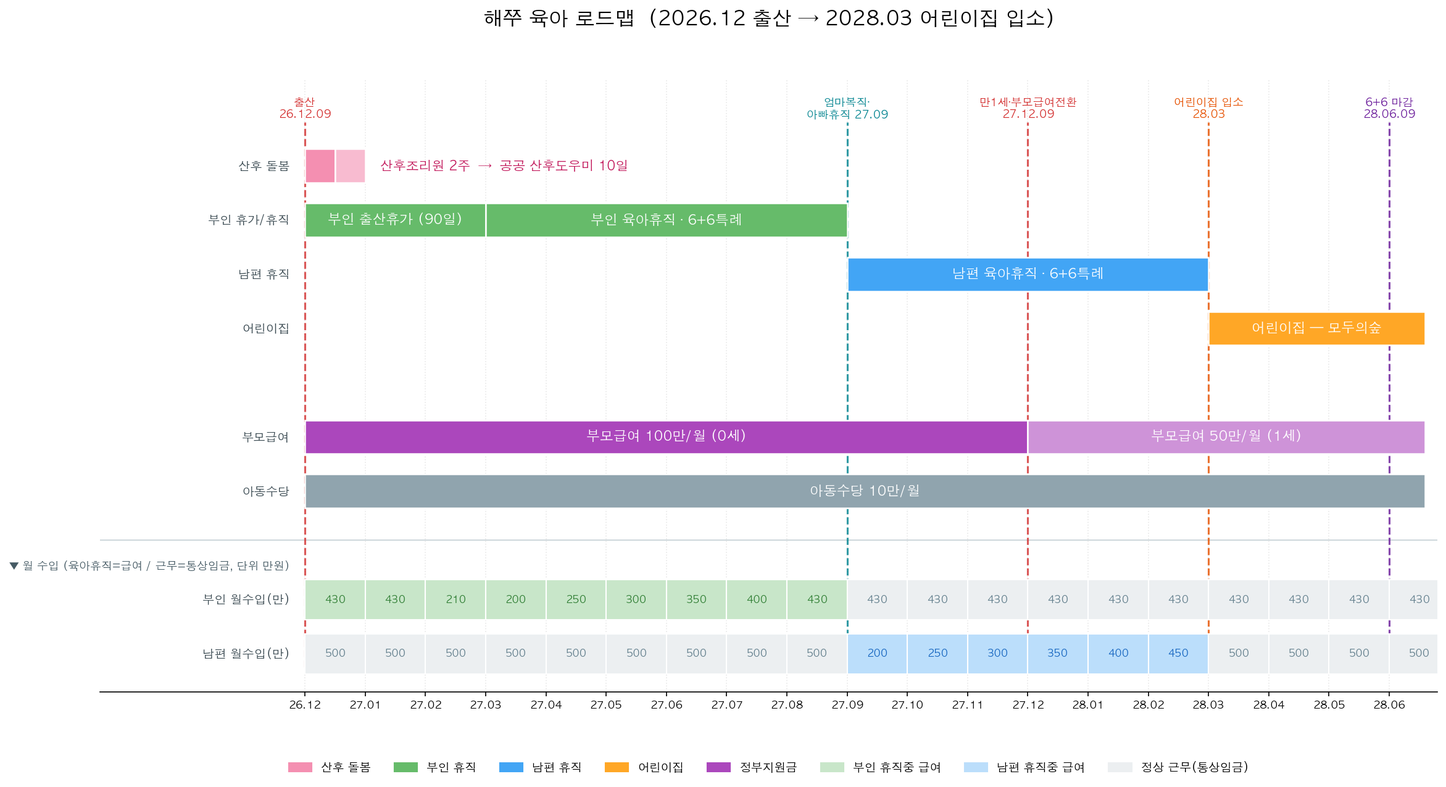
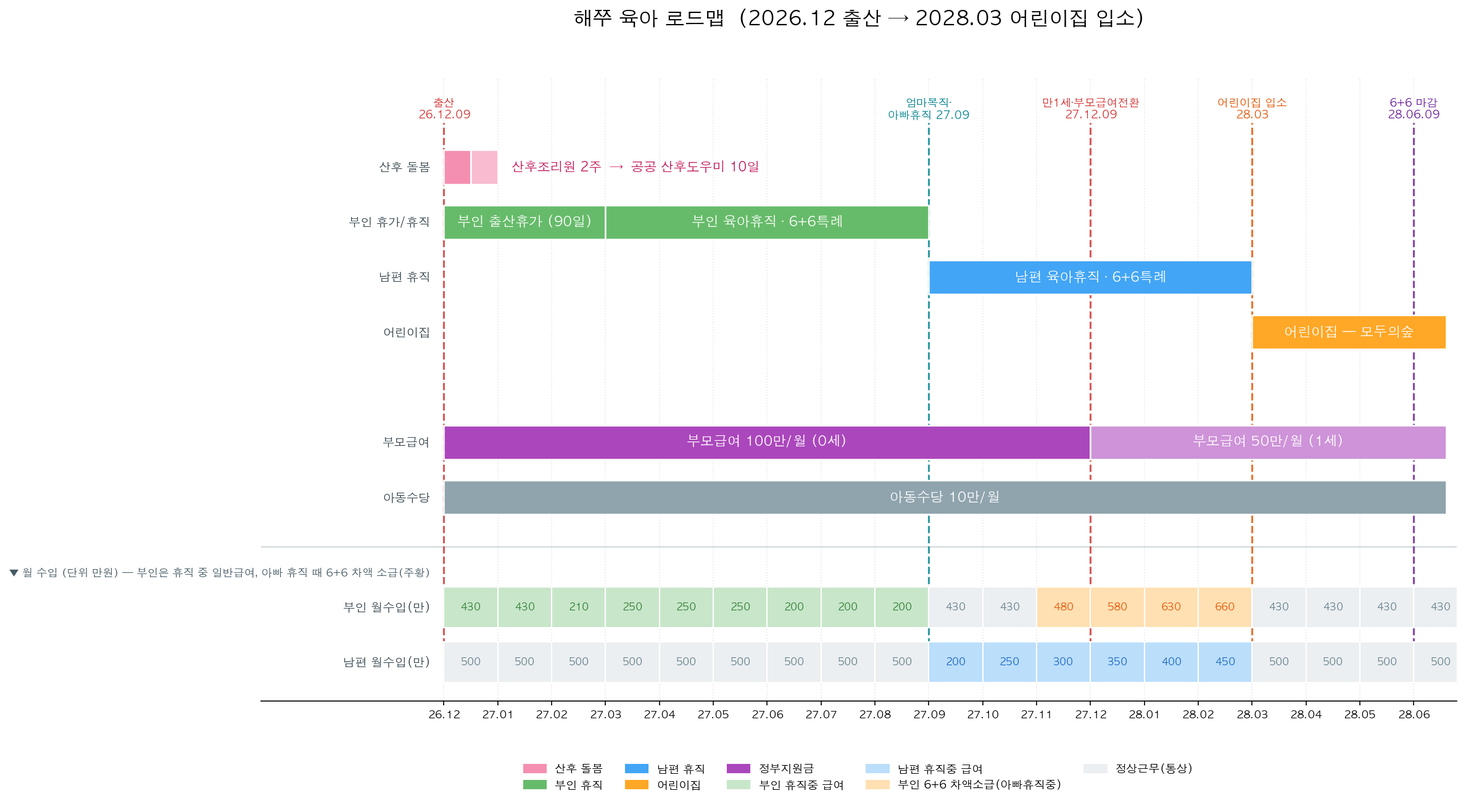
로드맵 HTML 갱신: 산후도우미 지명예약 역검색(윤스맘케어 등), 6+6 차액 소급 타임라인, 어린이집·6+6 설명 반영

diff --git a/roadmap.html b/roadmap.html
@@ -66,7 +66,7 @@ tbody tr:nth-child(even){background:#fafbff}
 <hr>
 <h2>0. 한눈에 보는 전체 타임라인</h2>
 <p class="imgwrap"><img src="roadmap_timeline.png" alt="해쭈 육아 로드맵 타임라인"></p>
-<blockquote><p>🟥 산후 돌봄 · 🟩 부인 휴직 · 🟦 남편 휴직 · 🟧 어린이집 · 🟪 정부지원금 | 점선 = 핵심 분기점(출산 / 엄마복직·아빠휴직 / 만1세·부모급여 전환 / 어린이집 입소 / 6+6 마감)<br>맨 아래 두 줄 = <strong>부인·남편 월수입</strong>(단위 만원): <strong>육아휴직 중엔 6+6 급여(연두/하늘색)</strong>, 근무 중엔 <strong>통상임금</strong>(부인 430·남편 500, 회색).</p></blockquote>
+<blockquote><p>🟥 산후 돌봄 · 🟩 부인 휴직 · 🟦 남편 휴직 · 🟧 어린이집 · 🟪 정부지원금 | 점선 = 핵심 분기점(출산 / 엄마복직·아빠휴직 / 만1세·부모급여 전환 / 어린이집 입소 / 6+6 마감)<br>맨 아래 두 줄 = <strong>부인·남편 월수입</strong>(만원). 부인은 <strong>휴직 중엔 일반급여</strong>(연두, 250·250·250·200·200·200)만 받고, <strong>아빠 휴직 기간(27.11~28.02)에 6+6 차액이 소급</strong>돼 그때 수입이 올라감(주황, 480·580·630·660). 남편은 휴직 중 6+6 급여(하늘), 근무 중엔 통상임금(부인 430·남편 500, 회색).</p></blockquote>
 <div class="tablewrap"><table><thead><tr><th>시기</th><th>해쭈 나이</th><th>돌봄 주체</th><th>핵심 이벤트</th></tr></thead><tbody><tr><td>2026.12.09</td><td>출생</td><td>엄마(출산휴가)</td><td>출생신고·원스톱 신청, <strong>아이사랑 입소대기 등록</strong></td></tr><tr><td>2026.12.09~23</td><td>0~2주</td><td>산후조리원(2주)</td><td>퇴소 후 <strong>산후도우미</strong> 이어서</td></tr><tr><td>2026.12 ~ 2027.03</td><td>0~3개월</td><td>엄마 출산전후휴가(90일) + 산후도우미</td><td>첫 예방접종·1차 영유아검진</td></tr><tr><td>2027.03 ~ 2027.09</td><td>3~9개월</td><td><strong>엄마 육아휴직(6개월)</strong></td><td>6+6 특례(엄마 첫 6개월 전부 100%), 2·3차 검진</td></tr><tr><td><strong>2027.09.10</strong></td><td>9개월</td><td>전환점</td><td><strong>엄마 복직 → 아빠 육아휴직 바로 시작</strong></td></tr><tr><td>2027.09 ~ 2028.03</td><td>9~15개월</td><td><strong>아빠 육아휴직(6개월)</strong></td><td>6+6 특례(아빠 첫 6개월 전부 100%)</td></tr><tr><td><strong>2027.12.09</strong></td><td><strong>만 1세</strong></td><td>전환점</td><td><strong>부모급여 100→50만원</strong>, 가정보육 1년 달성 ✅</td></tr><tr><td><strong>2028.03</strong></td><td>만 1세반</td><td>어린이집</td><td><strong>신학기 입소(권장)</strong>, 아빠 휴직 종료 무렵</td></tr><tr><td>2028.06.09</td><td>생후 18개월</td><td>—</td><td>⚠ <strong>6+6 마감일</strong> — 이번 플랜은 양쪽 모두 28.3 내 완료라 여유</td></tr></tbody></table></div>
 <blockquote><p>📌 핵심 한 줄: <strong>엄마 휴직 6개월(~27.09) → 아빠 휴직 6개월(27.09~28.03) → 28.3 어린이집 신학기 입소</strong>. 부모 각자 6+6 특례 첫 6개월(100%)을 손실 없이 꽉 채우는 동선.</p></blockquote>
 <hr>
@@ -93,17 +93,39 @@ tbody tr:nth-child(even){background:#fafbff}
 <blockquote><p>⚠ 위 금액은 2026년 <strong>전국 표준 단가</strong> (<a href="http://www.mohw.go.kr/board.es?mid=a10409020000&amp;bid=0026&amp;list_no=1488490&amp;act=view" target="_blank" rel="noopener">보건복지부 고시</a> · <a href="https://www.kmom.kr/bbs/page.php?hid=_sub_service_price" target="_blank" rel="noopener">가격표 참고</a>). 광진구·제공업체별 실제 단가와 <strong>본인부담금 추가지원</strong> 여부는 광진구보건소에서 최종 확인. VIP/프리미엄 관리사 지정 시 추가금(1일 1~2만원 → 10일이면 +10~20만원) 별도.</p></blockquote>
 <h3>산후도우미 액션 체크</h3>
 <ul><li><span class="cbx ">☐</span> <strong>2026.10말~11월</strong>: 출산 전 미리 복지로/광진구보건소에서 신청 (예정일 40일 전부터)</li><li><span class="cbx ">☐</span> 제공기관 미리 비교·예약 (인기 업체는 조기 마감 — 조리원 퇴소일 12.23 맞춰 일정 확보)</li><li><span class="cbx ">☐</span> 표준 10일 vs 연장 15일 결정 (첫째라 손 많이 가면 연장 고려)</li><li><span class="cbx ">☐</span> 산후조리경비 100만원 바우처와 결제 조합 확인</li></ul>
+<h3>🔑 핵심 — &quot;지정예약&quot;은 제도 밖이지만 <strong>윤스맘케어·이레아이맘은 실제로 됨</strong> (2026.06 맘스홀릭 역검색)</h3>
+<blockquote><p>바우처 <strong>제도 자체</strong>엔 관리사 지명 규정이 없지만(업체가 가용 인력 배정), <strong>맘스홀릭 원문 294건을 역검색하니 윤스맘케어·이레아이맘은 &quot;후기 보고 특정 관리사를 사전 지정요청&quot;이 실제로 가능</strong>했음(후기 다수). 즉 <strong>지정예약은 &quot;업체별 정책&quot;이고, 이 두 곳은 됨 / 코코맘은 안 됨.</strong></p></blockquote>
+<ul><li>✅ <strong>윤스맘케어</strong> — &quot;첫째 때 VIP지정으로 만났고 둘째도 꼭 지정해달라 요청&quot;(<a href="https://cafe.naver.com/f-e/cafes/10094499/articles/71017027" target="_blank" rel="noopener">후기288</a>), &quot;관리사 후기 다 읽고 이미숙 관리사 업체에 지정요청&quot;(<a href="https://cafe.naver.com/f-e/cafes/10094499/articles/72399818" target="_blank" rel="noopener">후기281</a>) → <strong>후기 보고 지명 가능</strong>. 단 인기 관리사는 <strong>일정이 안 맞을 수 있음</strong> → 일찍 요청 + 차선.</li><li>✅ <strong>이레아이맘</strong> — &quot;카페 추천글 많은 VIP 김경옥 관리사로 지정해서 예약&quot;(<a href="https://cafe.naver.com/f-e/cafes/10094499/articles/69637184" target="_blank" rel="noopener">후기044</a>) → 지명 가능.</li><li>❌ <strong>코코맘</strong> — 지정예약 불가(전화 확인, 출산 후 가용 인력 배정). 지옥렬 관리사는 군자동 출퇴근 거부.</li></ul>
+<h4>군자동(광진) 커버 + 바우처 + 지명 가능 — 우선순위</h4>
+<blockquote><p>군자동 콕 집은 후기는 없으나, <strong>광진구 출퇴근형 후기는 윤스맘케어에 압도적</strong>(광진 후기 다수). 군자동은 광진 출퇴근 권역.</p></blockquote>
+<div class="tablewrap"><table><thead><tr><th>순위</th><th>업체</th><th>지정예약</th><th>광진 커버</th><th>연락처</th><th>메모</th></tr></thead><tbody><tr><td><strong>1</strong></td><td><strong>윤스맘케어</strong></td><td>✅ 후기 확인</td><td>✅ <strong>광진 후기 압도적</strong>(22건)</td><td>맘스홀릭/전화</td><td>광진 VIP 관리사 다수 → 아래 명단</td></tr><tr><td><strong>2</strong></td><td><strong>이레아이맘</strong></td><td>✅ 후기 확인</td><td>성동·광진동대문 지점</td><td><a href="https://www.ereimom.co.kr/" target="_blank" rel="noopener">ereimom.co.kr</a></td><td>송명현·김경옥·김갑남</td></tr><tr><td>3</td><td>친정맘</td><td>❓ 전화확인</td><td>광진 전역(중곡 소재, 군자 인접)</td><td>☎ 02-512-3885</td><td>개인 관리사 데이터 없음</td></tr><tr><td>3</td><td>검출(금줄)</td><td>❓ 전화확인</td><td>성동·광진</td><td>☎ 02-6061-5425</td><td>개인 관리사 데이터 없음</td></tr></tbody></table></div>
+<blockquote><p>❌ 제외(검증 실패): <strong>에프엠산후도우미·베이비마스터·코코맘</strong> — 각각 커버/등급 미확인 또는 지정 불가.</p></blockquote>
+<h4>📞 전화 상담 시 꼭 물어볼 5가지</h4>
+<p>1. <strong>특정 관리사 지명예약 되나요?</strong> (출산 전 미리) — 안 되면 후기 보는 의미 없음</p>
+<p>2. 지명 시 <strong>지명료(추가금)</strong> 얼마? (바우처 외 별도인지)</p>
+<p>3. <strong>군자동 출퇴근형</strong> 배정 되나요? (조리원 퇴소 12.23 시작)</p>
+<p>4. <strong>정부 바우처 + 서울 산후조리경비 100만원</strong> 결제 조합 되나요?</p>
+<p>5. 사전예약은 <strong>언제부터</strong> 확정해 주나요? (예정일 며칠 전)</p>
+<h4>✅ 후기 말고 &#x27;공식 등급&#x27;으로 객관 검증</h4>
+<ul><li><a href="https://www.socialservice.or.kr:444/" target="_blank" rel="noopener">사회서비스 전자바우처 — 제공기관 검색</a> → <strong>광진구</strong> 필터 → 등록기관 + <strong>A~F 품질등급</strong> 확인</li><li><a href="https://www.mohw.go.kr/board.es?mid=a10501010200&amp;bid=0003&amp;act=view&amp;list_no=1488415" target="_blank" rel="noopener">2025 품질평가 결과 공개파일(Excel)</a> 다운 → 광진구 산모·신생아 기관 <strong>A등급</strong> 추리기 (2025년 산모·신생아 780곳 중 A 50%)</li><li>⏰ <strong>신청 시작 2026.10.30</strong>(예정일 40일 전) → 그 전에 업체 확정. <strong>서울 산후조리경비 조합 가능 여부는 광진구보건소(☎ 02-450-1933)</strong> 에 확인.</li></ul>
+<hr>
 <h3>🏆 후기 기반 산후도우미 업체·관리사 추천 순위 (광진/성동)</h3>
-<blockquote><p><strong>데이터 출처</strong>: 네이버 맘스홀릭베이비 카페에서 <code>&#x27;성동구 산후도우미&#x27;</code> + <code>&#x27;광진구 산후도우미&#x27;</code> 검색(2024.01~2026.06), <strong>후기/추천 글 293건 수집·집계</strong>.<br>⚠ <strong>이 순위는 &quot;카페 내 후기·추천 언급 빈도와 어조&quot; 기준</strong>이라 인기도(=시장점유·후기이벤트 영향 포함) 지표지, 검증된 품질평가가 아닙니다. 최종 선택 전 ① <a href="https://www.socialservice.or.kr:444/user/svcsrch/supply/supplyList.do" target="_blank" rel="noopener">사회서비스 품질평가 등급</a>(A~F) 확인, ② 전화 상담 분위기, ③ 홈캠 설치 가능 여부를 꼭 직접 점검하세요. (원문 수집본: <a href="산후도우미_크롤링/수집결과/" target="_blank" rel="noopener">산후도우미_크롤링/수집결과/</a>)</p></blockquote>
+<blockquote><p><strong>데이터 출처</strong>: 네이버 맘스홀릭베이비 카페에서 <code>&#x27;성동구 산후도우미&#x27;</code> + <code>&#x27;광진구 산후도우미&#x27;</code> 검색(2024.01~2026.06), <strong>후기/추천 글 293건 수집·집계</strong>.<br>⚠ 이 순위는 <strong>&#x27;업체 평판&#x27; 참고용</strong> — <strong>특정 관리사 지명예약 가능 여부는 위 🔑 섹션 참고</strong>(코코맘 등 대형업체는 지명예약 불가 확인). 군자동 출퇴근형으로 좁히면 후보가 달라짐.<br>⚠ <strong>이 순위는 &quot;카페 내 후기·추천 언급 빈도와 어조&quot; 기준</strong>이라 인기도(=시장점유·후기이벤트 영향 포함) 지표지, 검증된 품질평가가 아닙니다. 최종 선택 전 ① <a href="https://www.socialservice.or.kr:444/user/svcsrch/supply/supplyList.do" target="_blank" rel="noopener">사회서비스 품질평가 등급</a>(A~F) 확인, ② 전화 상담 분위기, ③ 홈캠 설치 가능 여부를 꼭 직접 점검하세요. (원문 수집본: <a href="산후도우미_크롤링/수집결과/" target="_blank" rel="noopener">산후도우미_크롤링/수집결과/</a>)</p></blockquote>
 <h4>업체 순위</h4>
-<div class="tablewrap"><table><thead><tr><th>순위</th><th>업체</th><th>후기 수</th><th>평판 요약</th><th>대표 후기</th></tr></thead><tbody><tr><td><strong>1</strong></td><td><strong>코코맘</strong></td><td><strong>93</strong></td><td>이 지역 <strong>압도적 1위</strong>(광진·성동 모두 커버). VIP 관리사 지명 후기 많음. 후기가 많은 만큼 관리사별 편차도 존재 → <strong>관리사 지명 추천</strong></td><td><a href="https://cafe.naver.com/f-e/cafes/10094499/articles/73301502" target="_blank" rel="noopener">문신숙</a> · <a href="https://cafe.naver.com/f-e/cafes/10094499/articles/73529726" target="_blank" rel="noopener">이운옥</a> · <a href="https://cafe.naver.com/f-e/cafes/10094499/articles/72942146" target="_blank" rel="noopener">김경옥</a></td></tr><tr><td><strong>2</strong></td><td><strong>윤스맘케어</strong></td><td>26</td><td>성동·광진·동대문 호평. VIP 관리사 만족 후기 다수</td><td><a href="https://cafe.naver.com/f-e/cafes/10094499/articles/78793130" target="_blank" rel="noopener">고영애</a> · <a href="https://cafe.naver.com/f-e/cafes/10094499/articles/78017241" target="_blank" rel="noopener">임○○ VIP</a></td></tr><tr><td><strong>3</strong></td><td><strong>이레아이맘</strong></td><td>15</td><td>성동(답십리·행당) 강세, VIP 관리사 강력추천 글</td><td><a href="https://cafe.naver.com/f-e/cafes/10094499/articles/69282922" target="_blank" rel="noopener">송명현 VIP</a> · <a href="https://cafe.naver.com/f-e/cafes/10094499/articles/70462451" target="_blank" rel="noopener">김갑남</a></td></tr><tr><td><strong>4</strong></td><td><strong>케이맘</strong></td><td>13</td><td>&quot;내돈내산 솔직후기&quot; 호평, 3주 이용 만족</td><td><a href="https://cafe.naver.com/f-e/cafes/10094499/articles/78477147" target="_blank" rel="noopener">3주 후기</a> · <a href="https://cafe.naver.com/f-e/cafes/10094499/articles/73396790" target="_blank" rel="noopener">솔직후기</a></td></tr><tr><td><strong>5</strong></td><td><strong>행복한돌봄</strong></td><td>9</td><td>성동 모유수유 케어 호평</td><td><a href="https://cafe.naver.com/f-e/cafes/10094499/articles/74843958" target="_blank" rel="noopener">모유수유 후기</a> · <a href="https://cafe.naver.com/f-e/cafes/10094499/articles/77741011" target="_blank" rel="noopener">이필자</a></td></tr><tr><td><strong>5</strong></td><td><strong>다산케어</strong></td><td>9</td><td>성동·중구, 쌍둥이 케어 가능</td><td><a href="https://cafe.naver.com/f-e/cafes/10094499/articles/76580350" target="_blank" rel="noopener">쌍둥이 케어</a> · <a href="https://cafe.naver.com/f-e/cafes/10094499/articles/70772592" target="_blank" rel="noopener">후기</a></td></tr><tr><td><strong>7</strong></td><td><strong>도담도담</strong></td><td>8</td><td><strong>서지안 대표·문명숙 관리사 강력추천</strong> 후기(아기에 진심)</td><td><a href="https://cafe.naver.com/f-e/cafes/10094499/articles/77041785" target="_blank" rel="noopener">두 곳 비교·강추</a> · <a href="https://cafe.naver.com/f-e/cafes/10094499/articles/75234526" target="_blank" rel="noopener">재이용</a></td></tr><tr><td><strong>8</strong></td><td><strong>닥터맘</strong></td><td>7</td><td>2주+연장 강추 후기</td><td><a href="https://cafe.naver.com/f-e/cafes/10094499/articles/70117565" target="_blank" rel="noopener">박현숙</a> · <a href="https://cafe.naver.com/f-e/cafes/10094499/articles/70722444" target="_blank" rel="noopener">강추후기</a></td></tr><tr><td>9</td><td>아이미래로</td><td>5</td><td>방문 산후도우미, 첫째·둘째 재이용</td><td><a href="https://cafe.naver.com/f-e/cafes/10094499/articles/75506948" target="_blank" rel="noopener">찐후기</a></td></tr><tr><td>10</td><td><strong>서울아가마지</strong></td><td>4</td><td><strong>사회적법인</strong>(개인업체 아님)·관리사 교육 철저·바우처 시 프리미엄 없음. 후기 적지만 질 호평</td><td><a href="https://cafe.naver.com/f-e/cafes/10094499/articles/70262382" target="_blank" rel="noopener">업체고르는 tip+찐후기</a> · <a href="https://cafe.naver.com/f-e/cafes/10094499/articles/70530192" target="_blank" rel="noopener">강영선</a></td></tr><tr><td>11</td><td>아임베베</td><td>3</td><td>동대문지사 신형숙 관리사 호평</td><td><a href="https://cafe.naver.com/f-e/cafes/10094499/articles/77780324" target="_blank" rel="noopener">신형숙</a></td></tr></tbody></table></div>
-<h4>개인 관리사 추천 순위 (지명 후기가 많은 분 — 대부분 코코맘 VIP)</h4>
-<blockquote><p>산후도우미는 <strong>업체보다 &quot;어떤 관리사가 오느냐&quot;가 만족도를 좌우</strong>합니다. 계약 시 아래 관리사를 <strong>지명 요청</strong>하면 좋습니다(가용 여부는 시기에 따라 다름).</p></blockquote>
-<div class="tablewrap"><table><thead><tr><th>순위</th><th>관리사</th><th>소속</th><th>지명 후기</th></tr></thead><tbody><tr><td><strong>1</strong></td><td><strong>지옥렬</strong></td><td>코코맘</td><td><a href="https://cafe.naver.com/f-e/cafes/10094499/articles/73440301" target="_blank" rel="noopener">추천</a> · <a href="https://cafe.naver.com/f-e/cafes/10094499/articles/71647878" target="_blank" rel="noopener">3주 이용</a> · <a href="https://cafe.naver.com/f-e/cafes/10094499/articles/75545004" target="_blank" rel="noopener">강추</a></td></tr><tr><td><strong>1</strong></td><td><strong>서명화</strong></td><td>코코맘</td><td><a href="https://cafe.naver.com/f-e/cafes/10094499/articles/72762602" target="_blank" rel="noopener">감사 후기</a> · <a href="https://cafe.naver.com/f-e/cafes/10094499/articles/76110315" target="_blank" rel="noopener">행당동 찐후기</a></td></tr><tr><td><strong>3</strong></td><td><strong>송명현</strong></td><td>코코맘/이레아이맘 VIP</td><td><a href="https://cafe.naver.com/f-e/cafes/10094499/articles/69282922" target="_blank" rel="noopener">이레아이맘</a> · <a href="https://cafe.naver.com/f-e/cafes/10094499/articles/79133545" target="_blank" rel="noopener">코코맘 VIP</a></td></tr><tr><td><strong>3</strong></td><td><strong>김경옥</strong></td><td>코코맘/이레아이맘</td><td><a href="https://cafe.naver.com/f-e/cafes/10094499/articles/69637184" target="_blank" rel="noopener">강력추천</a> · <a href="https://cafe.naver.com/f-e/cafes/10094499/articles/72942146" target="_blank" rel="noopener">이모님 후기</a></td></tr><tr><td><strong>3</strong></td><td><strong>최영안</strong></td><td>코코맘 VIP</td><td><a href="https://cafe.naver.com/f-e/cafes/10094499/articles/74789293" target="_blank" rel="noopener">행당동</a> · <a href="https://cafe.naver.com/f-e/cafes/10094499/articles/78893154" target="_blank" rel="noopener">추천</a></td></tr><tr><td>6</td><td><strong>최춘임</strong></td><td>코코맘 VIP</td><td><a href="https://cafe.naver.com/f-e/cafes/10094499/articles/72326502" target="_blank" rel="noopener">추천</a> · <a href="https://cafe.naver.com/f-e/cafes/10094499/articles/76137616" target="_blank" rel="noopener">추천2</a></td></tr><tr><td>6</td><td><strong>안지우</strong></td><td>코코맘 VIP</td><td><a href="https://cafe.naver.com/f-e/cafes/10094499/articles/78567679" target="_blank" rel="noopener">VIP 추천</a> · <a href="https://cafe.naver.com/f-e/cafes/10094499/articles/72552369" target="_blank" rel="noopener">광진구</a></td></tr><tr><td>6</td><td><strong>소미선</strong></td><td>코코맘 VIP</td><td><a href="https://cafe.naver.com/f-e/cafes/10094499/articles/69237273" target="_blank" rel="noopener">4주+연장</a> · <a href="https://cafe.naver.com/f-e/cafes/10094499/articles/75580059" target="_blank" rel="noopener">이모님 후기</a></td></tr><tr><td>6</td><td><strong>김영옥</strong></td><td>코코맘</td><td><a href="https://cafe.naver.com/f-e/cafes/10094499/articles/71573042" target="_blank" rel="noopener">강력추천</a> · <a href="https://cafe.naver.com/f-e/cafes/10094499/articles/72356002" target="_blank" rel="noopener">3주</a></td></tr><tr><td>6</td><td><strong>이미재</strong></td><td>코코맘</td><td><a href="https://cafe.naver.com/f-e/cafes/10094499/articles/75856858" target="_blank" rel="noopener">추천</a> · <a href="https://cafe.naver.com/f-e/cafes/10094499/articles/77415511" target="_blank" rel="noopener">입주</a></td></tr></tbody></table></div>
+<div class="tablewrap"><table><thead><tr><th>순위</th><th>업체</th><th>후기 수</th><th>평판 요약</th><th>대표 후기</th></tr></thead><tbody><tr><td><strong>1</strong></td><td><strong>코코맘</strong></td><td><strong>93</strong></td><td>이 지역 <strong>압도적 1위</strong>(광진·성동 커버). 단 ⚠ <strong>전화확인 결과 지정예약 불가</strong>(출산 후 가용 관리사 배정) → 후기 좋은 분 지명 어려움</td><td><a href="https://cafe.naver.com/f-e/cafes/10094499/articles/73301502" target="_blank" rel="noopener">문신숙</a> · <a href="https://cafe.naver.com/f-e/cafes/10094499/articles/73529726" target="_blank" rel="noopener">이운옥</a> · <a href="https://cafe.naver.com/f-e/cafes/10094499/articles/72942146" target="_blank" rel="noopener">김경옥</a></td></tr><tr><td><strong>2</strong></td><td><strong>윤스맘케어</strong></td><td>26</td><td>성동·광진·동대문 호평. VIP 관리사 만족 후기 다수</td><td><a href="https://cafe.naver.com/f-e/cafes/10094499/articles/78793130" target="_blank" rel="noopener">고영애</a> · <a href="https://cafe.naver.com/f-e/cafes/10094499/articles/78017241" target="_blank" rel="noopener">임○○ VIP</a></td></tr><tr><td><strong>3</strong></td><td><strong>이레아이맘</strong></td><td>15</td><td>성동(답십리·행당) 강세, VIP 관리사 강력추천 글</td><td><a href="https://cafe.naver.com/f-e/cafes/10094499/articles/69282922" target="_blank" rel="noopener">송명현 VIP</a> · <a href="https://cafe.naver.com/f-e/cafes/10094499/articles/70462451" target="_blank" rel="noopener">김갑남</a></td></tr><tr><td><strong>4</strong></td><td><strong>케이맘</strong></td><td>13</td><td>&quot;내돈내산 솔직후기&quot; 호평, 3주 이용 만족</td><td><a href="https://cafe.naver.com/f-e/cafes/10094499/articles/78477147" target="_blank" rel="noopener">3주 후기</a> · <a href="https://cafe.naver.com/f-e/cafes/10094499/articles/73396790" target="_blank" rel="noopener">솔직후기</a></td></tr><tr><td><strong>5</strong></td><td><strong>행복한돌봄</strong></td><td>9</td><td>성동 모유수유 케어 호평</td><td><a href="https://cafe.naver.com/f-e/cafes/10094499/articles/74843958" target="_blank" rel="noopener">모유수유 후기</a> · <a href="https://cafe.naver.com/f-e/cafes/10094499/articles/77741011" target="_blank" rel="noopener">이필자</a></td></tr><tr><td><strong>5</strong></td><td><strong>다산케어</strong></td><td>9</td><td>성동·중구, 쌍둥이 케어 가능</td><td><a href="https://cafe.naver.com/f-e/cafes/10094499/articles/76580350" target="_blank" rel="noopener">쌍둥이 케어</a> · <a href="https://cafe.naver.com/f-e/cafes/10094499/articles/70772592" target="_blank" rel="noopener">후기</a></td></tr><tr><td><strong>7</strong></td><td><strong>도담도담</strong></td><td>8</td><td><strong>서지안 대표·문명숙 관리사 강력추천</strong> 후기(아기에 진심)</td><td><a href="https://cafe.naver.com/f-e/cafes/10094499/articles/77041785" target="_blank" rel="noopener">두 곳 비교·강추</a> · <a href="https://cafe.naver.com/f-e/cafes/10094499/articles/75234526" target="_blank" rel="noopener">재이용</a></td></tr><tr><td><strong>8</strong></td><td><strong>닥터맘</strong></td><td>7</td><td>2주+연장 강추 후기</td><td><a href="https://cafe.naver.com/f-e/cafes/10094499/articles/70117565" target="_blank" rel="noopener">박현숙</a> · <a href="https://cafe.naver.com/f-e/cafes/10094499/articles/70722444" target="_blank" rel="noopener">강추후기</a></td></tr><tr><td>9</td><td>아이미래로</td><td>5</td><td>방문 산후도우미, 첫째·둘째 재이용</td><td><a href="https://cafe.naver.com/f-e/cafes/10094499/articles/75506948" target="_blank" rel="noopener">찐후기</a></td></tr><tr><td>10</td><td><strong>서울아가마지</strong></td><td>4</td><td><strong>사회적법인</strong>(개인업체 아님)·관리사 교육 철저·바우처 시 프리미엄 없음. 후기 적지만 질 호평</td><td><a href="https://cafe.naver.com/f-e/cafes/10094499/articles/70262382" target="_blank" rel="noopener">업체고르는 tip+찐후기</a> · <a href="https://cafe.naver.com/f-e/cafes/10094499/articles/70530192" target="_blank" rel="noopener">강영선</a></td></tr><tr><td>11</td><td>아임베베</td><td>3</td><td>동대문지사 신형숙 관리사 호평</td><td><a href="https://cafe.naver.com/f-e/cafes/10094499/articles/77780324" target="_blank" rel="noopener">신형숙</a></td></tr></tbody></table></div>
+<h4>업체별 평판 관리사 명단 (전화로 &quot;이 분 지명 되나요?&quot; 물어볼 리스트)</h4>
+<blockquote><p>맘스홀릭 원문 <strong>294건 역검색</strong> 결과. <strong>광진 출퇴근형 + 실명 관리사 + 지명 후기</strong>가 가장 많은 곳은 <strong>윤스맘케어</strong>(광진 22건), 그다음 <strong>이레아이맘</strong>. (코코맘은 후기 최다지만 지정 불가라 제외)</p></blockquote>
+<p><strong>① 윤스맘케어 — 광진 VIP 관리사 (지정요청 0순위)</strong></p>
+<div class="tablewrap"><table><thead><tr><th>관리사</th><th>광진 후기</th><th>메모</th></tr></thead><tbody><tr><td><strong>이미숙(VIP)</strong> ★</td><td><a href="https://cafe.naver.com/f-e/cafes/10094499/articles/71017027" target="_blank" rel="noopener">288</a> · <a href="https://cafe.naver.com/f-e/cafes/10094499/articles/72399818" target="_blank" rel="noopener">281</a></td><td>광진, &quot;둘째도 꼭 지정요청&quot; — <strong>지정 가능 직접 입증</strong>, 재지명 단골</td></tr><tr><td>김○숙(VIP)</td><td><a href="https://cafe.naver.com/f-e/cafes/10094499/articles/77411456" target="_blank" rel="noopener">286</a></td><td>광진</td></tr><tr><td>임경자</td><td><a href="https://cafe.naver.com/f-e/cafes/10094499/articles/76804334" target="_blank" rel="noopener">280</a></td><td>광진 강추</td></tr><tr><td>권오헌</td><td><a href="https://cafe.naver.com/f-e/cafes/10094499/articles/78636543" target="_blank" rel="noopener">289</a></td><td>광진</td></tr><tr><td>윤진○</td><td><a href="https://cafe.naver.com/f-e/cafes/10094499/articles/69319406" target="_blank" rel="noopener">142</a></td><td>광진</td></tr><tr><td>고영애·임○○(VIP)·김정희(VIP)·정옥희(VIP)</td><td><a href="https://cafe.naver.com/f-e/cafes/10094499/articles/78793130" target="_blank" rel="noopener">127</a>·<a href="https://cafe.naver.com/f-e/cafes/10094499/articles/78017241" target="_blank" rel="noopener">097</a>·<a href="https://cafe.naver.com/f-e/cafes/10094499/articles/75686570" target="_blank" rel="noopener">133</a>·<a href="https://cafe.naver.com/f-e/cafes/10094499/articles/71334910" target="_blank" rel="noopener">139</a></td><td>성동권(광진 출퇴근 문의)</td></tr></tbody></table></div>
+<p><strong>② 이레아이맘 — 성동·광진동대문 지점 (지정 가능 확인)</strong></p>
+<div class="tablewrap"><table><thead><tr><th>관리사</th><th>후기</th><th>메모</th></tr></thead><tbody><tr><td>송명현(VIP)·<strong>김경옥(VIP)</strong>·김갑남</td><td><a href="https://cafe.naver.com/f-e/cafes/10094499/articles/69282922" target="_blank" rel="noopener">043</a>·<a href="https://cafe.naver.com/f-e/cafes/10094499/articles/69637184" target="_blank" rel="noopener">044</a>·<a href="https://cafe.naver.com/f-e/cafes/10094499/articles/70462451" target="_blank" rel="noopener">049</a></td><td>김경옥=지정예약 후기. 단 &quot;관리사 중간변경&quot; 불만 후기 있음 → 계약서 명시</td></tr><tr><td>(지점 강추)</td><td><a href="https://cafe.naver.com/f-e/cafes/10094499/articles/76424226" target="_blank" rel="noopener">191</a></td><td>성동광진동대문 지점</td></tr></tbody></table></div>
+<p><strong>③ 기타 (광진 커버) — 전화 확인용</strong></p>
+<ul><li><strong>케이맘</strong> 성동광진동대문점: <a href="https://cafe.naver.com/f-e/cafes/10094499/articles/78020798" target="_blank" rel="noopener">이○형 관리사</a></li><li><strong>친정맘</strong>(☎ 02-512-3885)·<strong>검출/금줄</strong>(☎ 02-6061-5425): 맘스홀릭에 개인명 거의 없음 → 전화로 &quot;출퇴근 가능·평 좋은 분 추천&quot; 요청</li><li>도담도담(성동·광진)·닥터맘·행복한돌봄·아임베베: 후기 소수</li></ul>
+<blockquote><p>💡 결론: <strong>윤스맘케어에 먼저 전화</strong> → <strong>이미숙(VIP)</strong> 등 위 명단으로 <strong>지정요청</strong>(인기라 조기마감 → <strong>예정일 40일 전 바로</strong>). 안 되면 차선 관리사 + <strong>이레아이맘(김경옥 등)</strong> 병행. 모두 <a href="#-전화-상담-시-꼭-물어볼-5가지" target="_blank" rel="noopener">📞 5가지 질문</a>으로 확인.</p></blockquote>
 <h4>💡 후기에서 공통으로 강조된 팁</h4>
 <ul><li><strong>홈캠(거실 전체가 보이게) 설치 권장</strong> — &quot;관리사님 동작 중 알림&quot;도 켜두고, 마음에 안 드는 점이 <strong>초반에 보이면 눈치 보지 말고 바로 교체</strong>. (마지막까지 참다 후회한 사례 다수: <a href="https://cafe.naver.com/f-e/cafes/10094499/articles/77727703" target="_blank" rel="noopener">교체 안 한 후회 후기</a>)</li><li><strong>VIP/프리미엄 추가금</strong>(1일 1~2만원, 맘카드 불가·계좌이체 요구)이 흔함 → 정말 베테랑인지 확인. 사회적법인(아가마지)은 바우처 시 프리미엄 없음.</li><li>밥·반찬보다 <strong>신생아 케어 안전·청결(손씻기·열탕소독·수유자세·폰 미사용)</strong> 을 1순위로 볼 것.</li><li>인기 관리사는 조기 마감 → <strong>예정일 40일 전 신청 + 관리사 지명 예약</strong>을 빨리.</li></ul>
 <h3>산후도우미 액션 체크 (업체 선정)</h3>
-<ul><li><span class="cbx ">☐</span> 위 표에서 <strong>2~3곳 후보 압축</strong> → 전화 상담(분위기·프리미엄 정책·가용 관리사 확인)</li><li><span class="cbx ">☐</span> <a href="https://www.socialservice.or.kr:444/user/svcsrch/supply/supplyList.do" target="_blank" rel="noopener">사회서비스 품질평가</a>에서 후보 업체 <strong>B등급 이상</strong> 교차 확인</li><li><span class="cbx ">☐</span> 원하는 관리사 <strong>지명 가능 여부 + 12.23 시작 일정</strong> 확보</li><li><span class="cbx ">☐</span> 홈캠 준비, 계약 전 교체·환불 조건 확인</li></ul>
+<ul><li><span class="cbx ">☐</span> <strong>윤스맘케어 0순위 전화</strong> → 이미숙(VIP) 등 광진 관리사 <strong>지정요청</strong> + 위 <a href="#-전화-상담-시-꼭-물어볼-5가지" target="_blank" rel="noopener">📞 5가지 질문</a> 확인 / 차선으로 <strong>이레아이맘(김경옥)</strong>, 보조로 친정맘·검출</li><li><span class="cbx ">☐</span> <a href="https://www.socialservice.or.kr:444/" target="_blank" rel="noopener">사회서비스 전자바우처 제공기관 검색</a>에서 <strong>광진구 등록기관 + A~F 등급</strong> 교차 확인 (가능하면 <strong>A등급</strong> 우선)</li><li><span class="cbx ">☐</span> 지명 되는 곳이면 <strong>원하는 관리사 + 12.23 시작 일정</strong> 확보 / 안 되면 <strong>A등급 업체로 배정 신뢰</strong>하는 쪽으로 전환</li><li><span class="cbx ">☐</span> <strong>2026.10.30(예정일 40일 전) 전 업체 확정</strong>, 서울 산후조리경비 조합은 보건소 확인</li><li><span class="cbx ">☐</span> 홈캠 준비, 계약 전 교체·환불 조건 확인, 첫날 안 맞으면 <strong>초반 교체</strong></li></ul>
 <hr>
 <h2>1.6 쏘카(부인 직장) 사내 출산·육아 제도 ★</h2>
 <blockquote><p>출처: 쏘카 피플성장팀 「출산/육아 지원제도」(2025.10.10). 신청·문의 = <strong>피플성장팀</strong>, 급여 = <strong>payroll@</strong>. 상세는 취업규칙·법령 우선.</p></blockquote>
@@ -130,6 +152,7 @@ tbody tr:nth-child(even){background:#fafbff}
 <blockquote><p>2026년부터 <strong>사후지급금 폐지</strong> → 매달 전액 즉시 수령.</p></blockquote>
 <h3>👩 부인(쏘카) — 출산휴가 90일 + 육아휴직 6개월</h3>
 <div class="tablewrap"><table><thead><tr><th>월</th><th>구분</th><th>국가 지원 (통상 430만)</th><th>기업 지원</th><th>비고</th></tr></thead><tbody><tr><td>26.12</td><td>출산전후휴가(1)</td><td>회사 430만¹</td><td>회사 부담</td><td>첫 60일 회사 통상 100%</td></tr><tr><td>27.01</td><td>출산전후휴가(2)</td><td>회사 430만¹</td><td>회사 부담</td><td></td></tr><tr><td>27.02</td><td>출산전후휴가(3·마지막30일)</td><td>고용보험 상한 ~210만²</td><td>차액 회사규정 확인</td><td></td></tr><tr><td>27.03</td><td>육아휴직 1개월차 (6+6)</td><td><strong>200만</strong></td><td>없음</td><td></td></tr><tr><td>27.04</td><td>2개월차 (6+6)</td><td><strong>250만</strong></td><td>없음</td><td></td></tr><tr><td>27.05</td><td>3개월차 (6+6)</td><td><strong>300만</strong></td><td>없음</td><td></td></tr><tr><td>27.06</td><td>4개월차 (6+6)</td><td><strong>350만</strong></td><td>없음</td><td></td></tr><tr><td>27.07</td><td>5개월차 (6+6)</td><td><strong>400만</strong></td><td>없음</td><td></td></tr><tr><td>27.08</td><td>6개월차 (6+6)</td><td><strong>430만</strong></td><td>top-up?</td><td>통상 100%(&lt;상한450), 6+6 마지막</td></tr><tr><td><strong>27.09~</strong></td><td><strong>복직</strong></td><td>정상 급여(실수령 380만)</td><td>—</td><td>육휴 종료, 첫 6개월 전부 100% 수령</td></tr><tr><td><strong>육아휴직급여 합계</strong></td><td></td><td><strong>약 1,930만원</strong></td><td>+ 회사 top-up</td><td>(출산휴가급여 별도)</td></tr></tbody></table></div>
+<blockquote><p>⏱ <strong>수령 시점 주의</strong>: 위 6+6 금액은 <strong>&#x27;최종 수령(효과) 기준&#x27;</strong>. 실제로는 <strong>휴직 중(27.03~27.08)엔 일반급여</strong>(250·250·250·200·200·200)를 받고, <strong>차액(0·0·50·150·200·230)은 아빠가 휴직할 때(27.09~28.02) 매달 소급 지급</strong>됨. → 현금 흐름은 <a href="#0-한눈에-보는-전체-타임라인" target="_blank" rel="noopener">타임라인 이미지</a>의 부인 월수입 행 참고. (아빠가 6개월을 다 못 채우면 채운 개월수만큼만 소급 — 환수는 없고 그만큼 덜 받음)</p></blockquote>
 <h3>👨 남편 — 육아휴직 6개월 (27.09~28.03, 전부 6+6)</h3>
 <blockquote><p>남편 회사(소기업)는 별도 규정 없음 → 아래는 <strong>국가 법정 기준만</strong>. 통상 500만이라 6+6 상한(200~450만)에 전부 도달. <strong>엄마 복직과 동시(27.09)에 바로 시작</strong>.</p></blockquote>
 <div class="tablewrap"><table><thead><tr><th>월</th><th>구분</th><th>국가 지원 (통상 500만)</th><th>기업 지원</th><th>비고</th></tr></thead><tbody><tr><td>27.09</td><td>1개월차 (6+6)</td><td><strong>200만</strong></td><td>없음</td><td>엄마 복직과 동시 시작</td></tr><tr><td>27.10</td><td>2개월차 (6+6)</td><td><strong>250만</strong></td><td>없음</td><td></td></tr><tr><td>27.11</td><td>3개월차 (6+6)</td><td><strong>300만</strong></td><td>없음</td><td></td></tr><tr><td>27.12</td><td>4개월차 (6+6)</td><td><strong>350만</strong></td><td>없음</td><td>부모급여 50만 전환월</td></tr><tr><td>28.01</td><td>5개월차 (6+6)</td><td><strong>400만</strong></td><td>없음</td><td></td></tr><tr><td>28.02</td><td>6개월차 (6+6)</td><td><strong>450만</strong></td><td>없음</td><td>통상 500&gt;상한450 → 450</td></tr><tr><td><strong>28.03~</strong></td><td><strong>복직</strong></td><td>정상 급여(실수령 450만)</td><td>—</td><td>어린이집 신학기 입소 무렵</td></tr><tr><td><strong>육아휴직급여 합계</strong></td><td></td><td><strong>약 1,950만원</strong></td><td>—</td><td>6개월 전부 100% 특례, 1인 최대치</td></tr></tbody></table></div>
